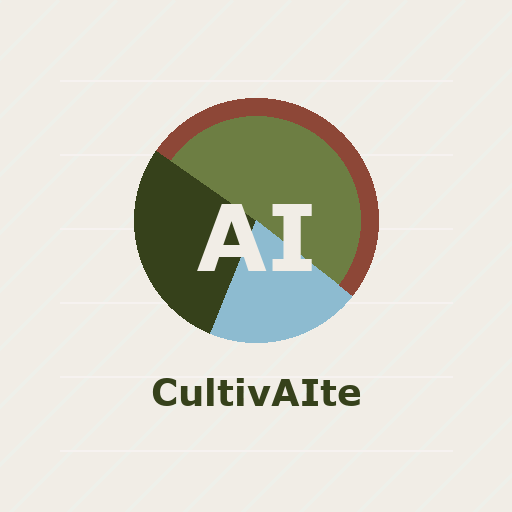
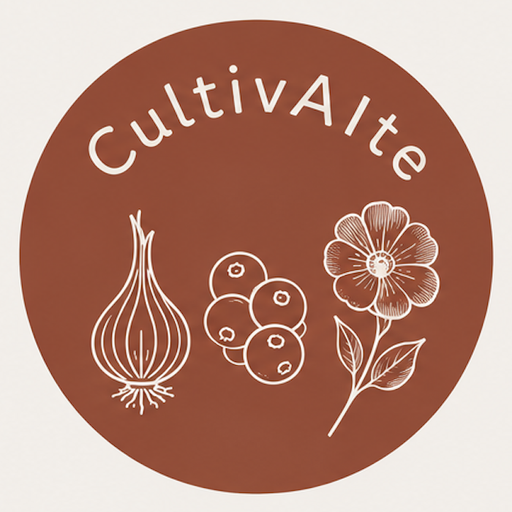
Add files via upload

diff --git a/styles.css b/styles.css
@@ -85,21 +85,19 @@ button {
 }
 
 .brand-mark {
-  display: grid;
-  place-items: center;
   flex: 0 0 auto;
-  width: 54px;
-  height: 54px;
-  border: 2px solid rgba(54, 65, 27, 0.2);
+  width: 64px;
+  height: 64px;
+  border: 2px solid rgba(54, 65, 27, 0.16);
   border-radius: 50%;
-  background:
-    linear-gradient(135deg, rgba(141, 71, 55, 0.96) 0 48%, rgba(109, 126, 67, 0.96) 48% 100%);
-  color: var(--ivory);
-  font-family: var(--font-logo);
-  font-size: 0.92rem;
-  font-weight: 900;
-  letter-spacing: 0.05em;
+  object-fit: cover;
+  background: var(--ivory);
   box-shadow: 0 10px 24px rgba(54, 65, 27, 0.16);
+}
+
+.brand-lockup.compact .brand-mark {
+  width: 52px;
+  height: 52px;
 }
 
 .app-nav {

diff --git a/index.html b/index.html
@@ -15,7 +15,7 @@
     <main class="app-root">
       <header class="app-header">
         <div class="brand-lockup">
-          <span class="brand-mark" aria-hidden="true">AI</span>
+          <img class="brand-mark" src="./icons/cultivaite-logo.png" alt="" aria-hidden="true" />
           <div>
             <p class="eyebrow">Cultivating smarter growth</p>
             <h1>CultivAIte</h1>
@@ -60,7 +60,7 @@
           <section class="planner-panel">
         <div class="brand-row">
           <div class="brand-lockup compact">
-            <span class="brand-mark" aria-hidden="true">AI</span>
+            <img class="brand-mark" src="./icons/cultivaite-logo.png" alt="" aria-hidden="true" />
             <div>
               <p class="eyebrow">Cultivating smarter growth</p>
               <h1>CultivAIte</h1>

diff --git a/sw.js b/sw.js
@@ -1,4 +1,4 @@
-const CACHE_NAME = "cultivaite-pwa-v1";
+const CACHE_NAME = "cultivaite-pwa-v2";
 const APP_SHELL = [
   "/",
   "/index.html",
@@ -6,6 +6,7 @@ const APP_SHELL = [
   "/icons/icon-192.png",
   "/icons/icon-512.png",
   "/icons/apple-touch-icon.png",
+  "/icons/cultivaite-logo.png",
   "/src/styles.css",
   "/src/standalone.js",
   "/sw.js"